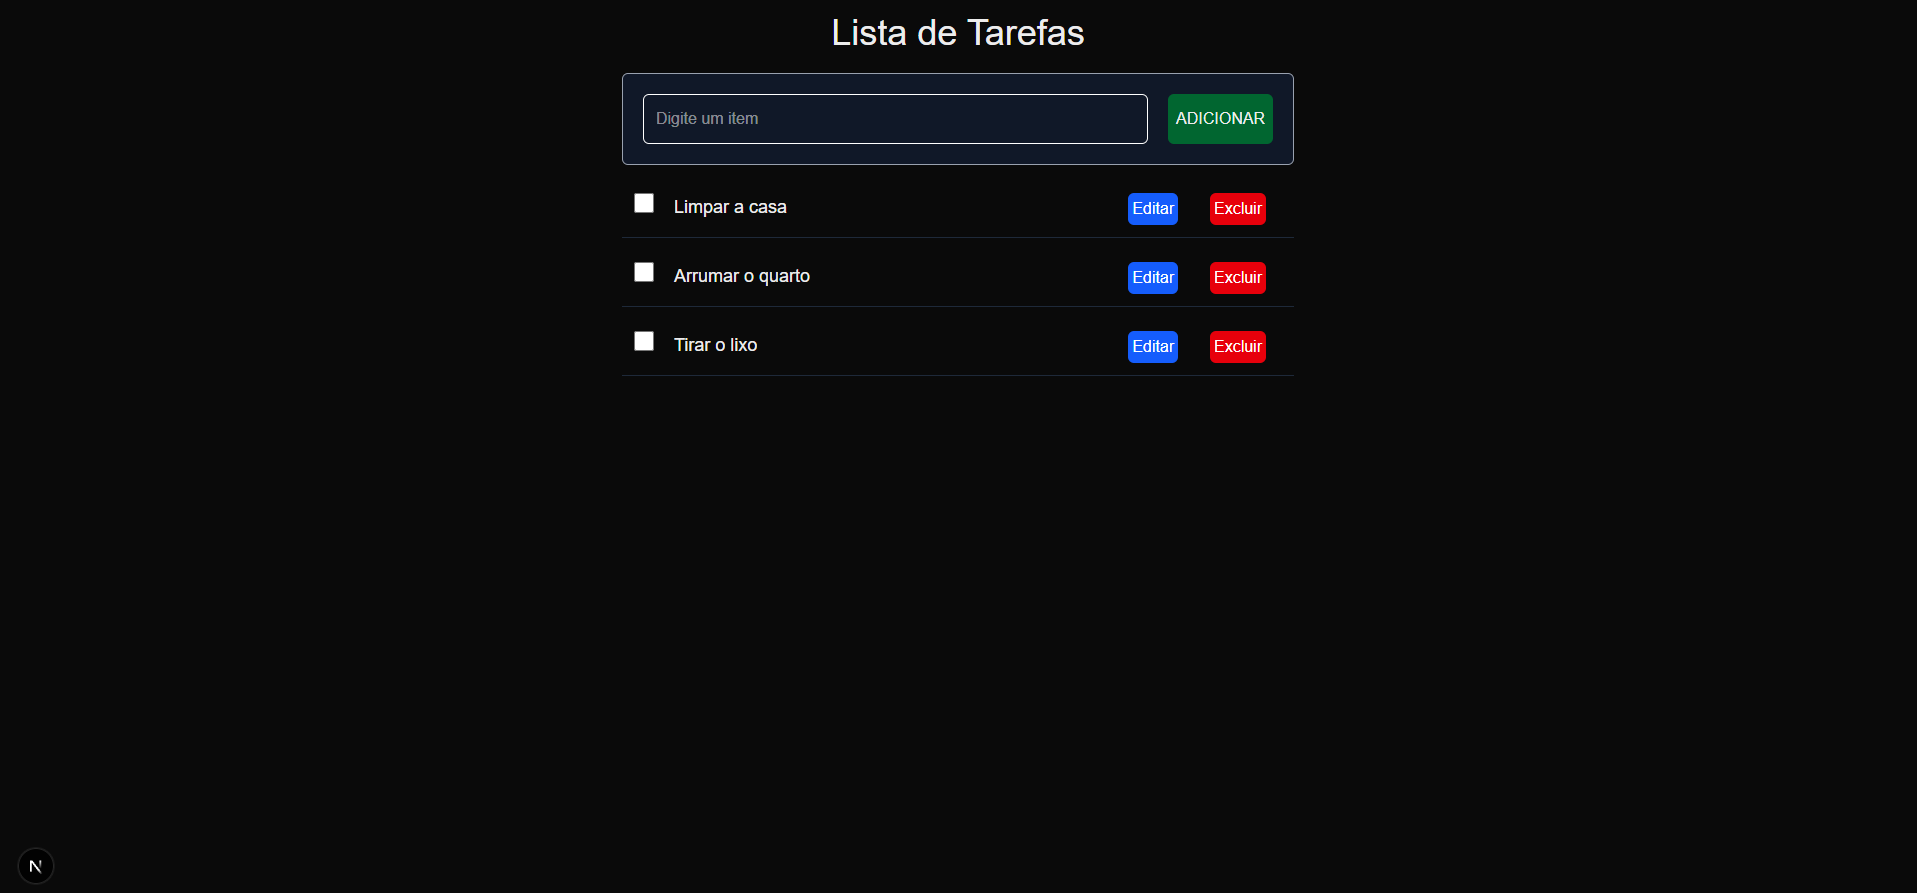
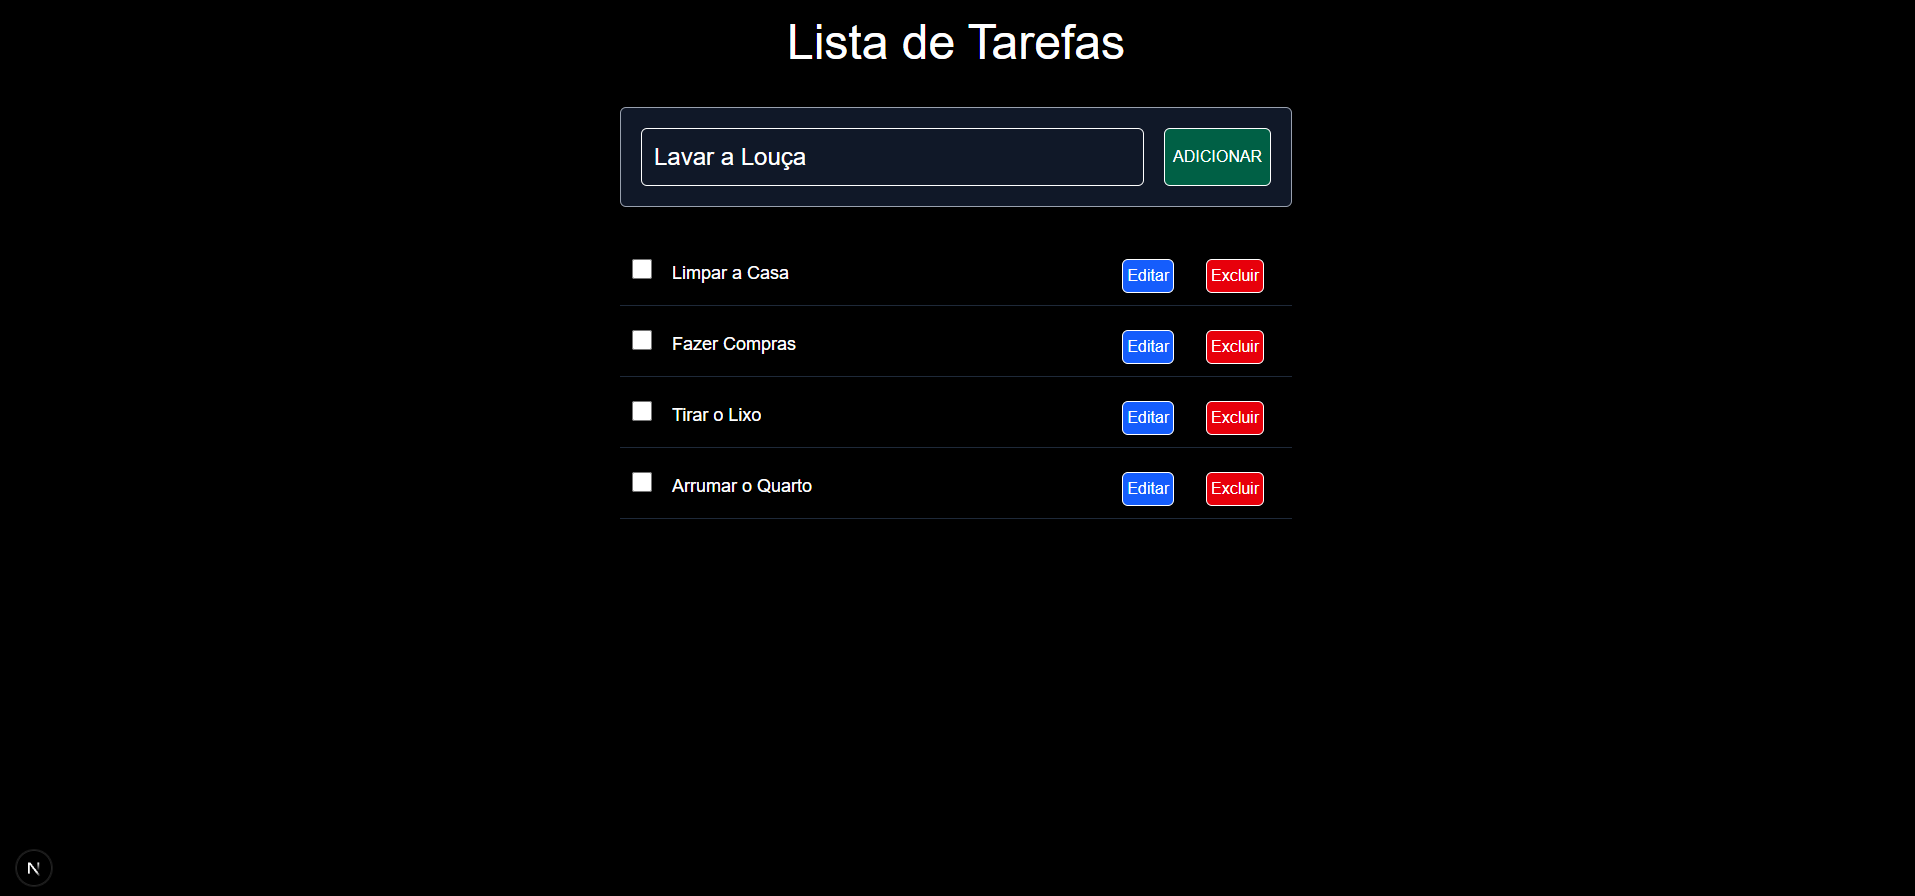
editando projeto ToDoList

diff --git a/src/components/sections/Projects.tsx b/src/components/sections/Projects.tsx
@@ -3,7 +3,7 @@ import Image from 'next/image'
 const projects = [
   {
     name: 'Pizzaria Online',
-    description: 'Sistema de pedidos online com carrinho interativo e cálculo de total em tempo real.',
+    description: 'Sistema de pedidos online com carrinho interativo e cálculo total em tempo real.',
     tech: ['HTML', 'CSS', 'JavaScript'],
     image: '/projeto-pizzaria.png',
     demo: 'https://raul-de-oliveira.github.io/projeto-pizzaria/',
@@ -11,7 +11,7 @@ const projects = [
   },
   {
     name: 'Landing Page',
-    description: 'Landing page com formulário de cadastro validado e menu hamburguer responsivo.',
+    description: 'Landing page com um formulario de cadastro valido.',
     tech: ['HTML', 'CSS', 'JavaScript'],
     image: '/projeto-landing.png',
     demo: 'https://raul-de-oliveira.github.io/landing-page/',
@@ -19,8 +19,8 @@ const projects = [
   },
   {
     name: 'Lista de Tarefas',
-    description: 'Checklist de trabalhos de casa com verificação de conclusão e feedback visual.',
-    tech: ['HTML', 'CSS', 'JavaScript'],
+    description: 'lista de tarefas com botões de excluir e editar.',
+    tech: ['React', 'TypeScript', 'Tailwind CSS'],
     image: '/projeto-ToDoList.png',
     demo: 'https://projeto-to-do-list-react.vercel.app',
     repo: 'https://github.com/Raul-de-Oliveira/projeto-ToDoList-react.git',

diff --git a/src/components/sections/About.tsx b/src/components/sections/About.tsx
@@ -29,7 +29,7 @@ export default function About() {
           <div>
             <p style={{ fontSize: '15px', lineHeight: 1.8, marginBottom: '16px', color: 'var(--text-secondary)' }}>
               Olá! Sou Raul, desenvolvedor Frontend focado em criar experiências web modernas, 
-              intuitivas e funcionais. Estou em constante evolução aprofundando e melhorando códigos em React a cada projeto.
+              intuitivas e funcionais. Estou em constante evolução, aprofundando e melhorando códigos em React a cada projeto.
             </p>
             <p style={{ fontSize: '15px', lineHeight: 1.8, marginBottom: '16px', color: 'var(--text-secondary)' }}>
               Tenho foco em escrever código limpo, acessível e performático,
